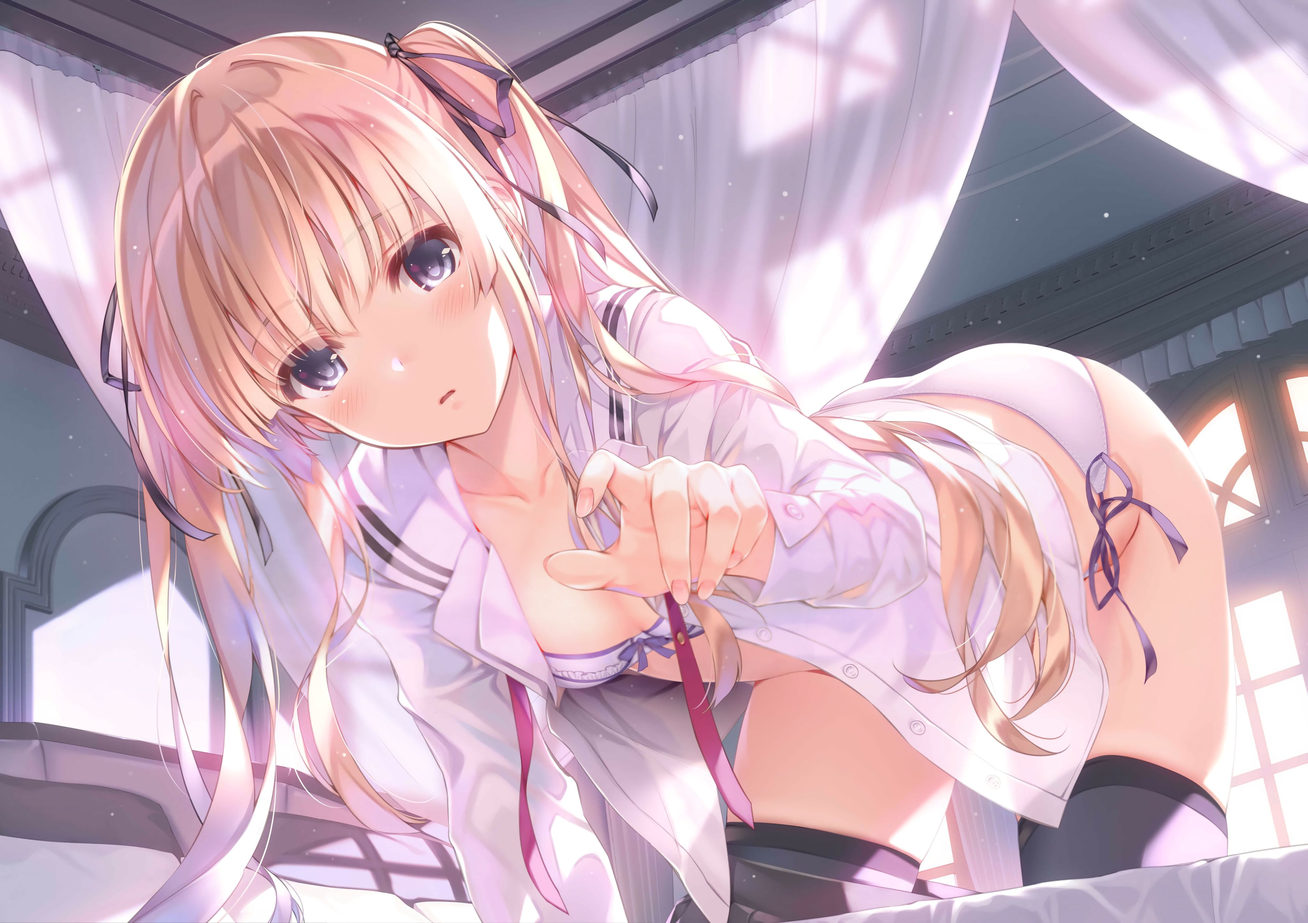
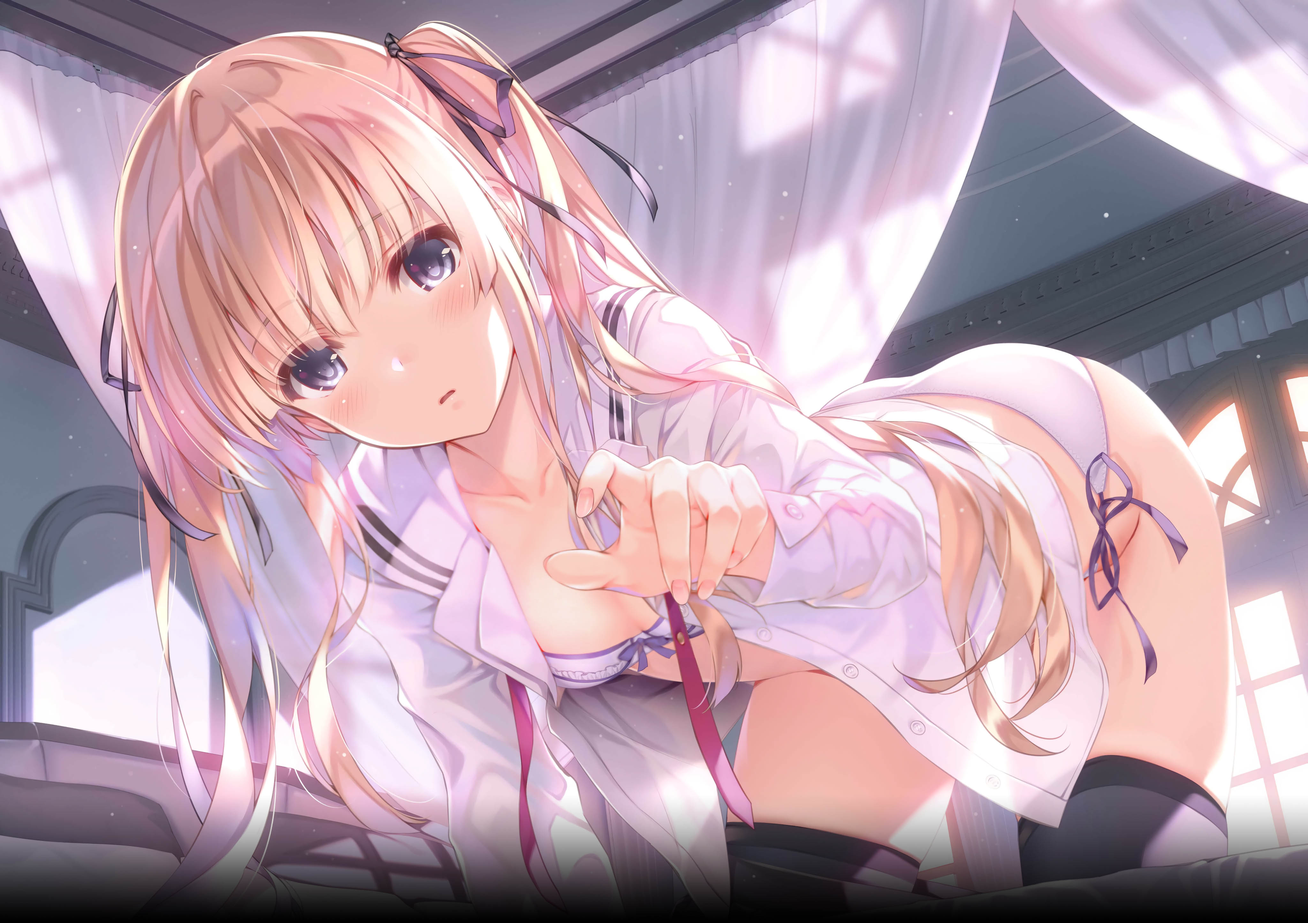
a bit more mobile-friendly and optimized buttons.

Changed region(s): [[0.0, 0.872, 1.0, 1.0]]

diff --git a/style.css b/style.css
@@ -5,100 +5,61 @@ p, a {
     font-family: 'Exo 2', sans-serif;
 }
 body {
-    background: url(Eriri.jpg);
+    background: #000 url(Eriri.jpg);
     background-repeat: no-repeat;
-    background-position: center;
+    background-position: top;
     background-attachment: fixed;
     background-size: 150%;
 }
-a:visited, a:link {
+#btext {
     color: white;
     text-decoration: none;
-}
-.avatar {
-    border-radius: 50%;
-    max-width: 128px;   
-    border: 12px solid pink;
-}
-.buttonosu {
-    background-color: #cc5288;
-    border-radius: 12px;
-    border: none;
-    padding: 8px;
-    padding-right: 20px;
-    padding-left: 20px;
-    margin-right: 6px;
-    margin-left: 6px;
-}
-.buttonkitsu {
-    background-color: #f75239;
-    border-radius: 12px;
-    border: none;
-    padding: 8px;
-    padding-right: 20px;
-    padding-left: 20px;
-    margin-right: 6px;
-    margin-left: 6px;
-}
-.buttonyoutube {
-    background-color: red;
-    border-radius: 12px;
-    border: none;
-    padding: 8px;
-    padding-right: 20px;
-    padding-left: 20px;
-    margin-right: 6px;
-    margin-left: 6px;
-}
-.buttontwitch {
-    background-color: #6441a4;
-    border-radius: 12px;
-    border: none;
-    padding: 8px;
-    padding-right: 20px;
-    padding-left: 20px;
-    margin-right: 6px;
-    margin-left: 6px;
-}
-.buttondiscord {
-    background-color: #7289DA;
-    border-radius: 12px;
-    border: none;
-    padding: 8px;
-    padding-right: 20px;
-    padding-left: 20px;
-    margin-right: 6px;
-    margin-left: 6px;
-}
-.buttongitlab {
-    background-color: #fc6d26;
-    border-radius: 12px;
-    border: none;
-    padding: 8px;
-    padding-right: 20px;
-    padding-left: 20px;
-    margin-right: 6px;
-    margin-left: 6px;
-}
-.buttongithub {
-    background-color: #24292e;
-    border-radius: 12px;
-    border: none;
-    padding: 8px;
-    padding-right: 20px;
-    padding-left: 20px;
-    margin-right: 6px;
-    margin-left: 6px;
 }
 .box {
     background: rgba(255,255,255,0.8);
     padding-top: 40px;
     padding-bottom: 40px;
-    padding-right: 40px;
-    padding-left: 40px;
+    padding-right: 20px;
+    padding-left: 20px;
     margin-right: 20%;
     margin-left: 20%;
 }
-.align {
+.align1 {
     margin: 12%;
+}
+.avatar {
+    border-radius: 50%;
+    max-width: 128px;   
+    border: 12px solid rgba(255,255,255,0.8);
+}
+.button{
+    border-radius: 12px;
+    border: none;
+    padding: 0px;
+    padding-right: 20px;
+    padding-left: 20px;
+    margin-right: 6px;
+    margin-left: 6px;
+    margin-bottom: 12px;
+}
+#buttonosu {
+    background-color: #cc5288;
+}
+#buttonkitsu {
+    background-color: #f75239;
+}
+#buttonyoutube {
+    background-color: red;
+}
+#buttontwitch {
+    background-color: #6441a4;
+}
+#buttondiscord {
+    background-color: #7289DA;
+}
+#buttongitlab {
+    background-color: #fc6d26;
+}
+#buttongithub {
+    background-color: #24292e;
 }

diff --git a/index.html b/index.html
@@ -14,14 +14,21 @@
 <meta property="og:description" content="Hi, staranger! There are mostly links to my online accounts and some contact information.">
 <meta property="og:image" content="https://a.ppy.sh/4428094?1541339427.jpg">
 <meta property="og:url" content="https://me.katou.pw//index.html">
+<meta name="viewport" content="width=device-width, initial-scale=1.0">
 </head>
 <body>
-<center class="align"><img src="https://a.ppy.sh/4428094?1541339427.jpg" class="avatar"><br>
-<h4 class="box"><p>Yo. My online identity is KatouEMgumi_osu and it's quite hypocrite.
+<center class="align1"><img src="https://a.ppy.sh/4428094?1541339427.jpg" class="avatar"><br>
+<h4 class="box"><p>Yo. My online identity is KatouMegumi_osu and it's quite hypocrite.
 <br>I actually like Eriri, despite common misconceptions.<br><br><br>
 
-<button class="buttonosu"><a href="https://osu.ppy.sh/users/4428094" class="osulink"><i class="fas fa-pen"></i> osu! Profile</a></button>  <button class="buttonkitsu"><a href="https://kitsu.io/users/KatouMegumi" class="kitsulink"><i class="fab fa-firefox"></i> Kitsu</a></button>  <button class="buttonyoutube"><a href="https://www.youtube.com/channel/UCYq1UZb7jpCV5bJogb-chww"><i class="fab fa-youtube"></i> YouTube</a></button>  <button class="buttontwitch"><a href="https://www.twitch.tv/katoumegumi_" class="twitchlink"><i class="fab fa-twitch"></i> Twitch</a></button>  <button class="buttondiscord"><a href="https://discord.gg/3kQx3QJ"><i class="fab fa-discord"></i> Discord Server</a></button>
-<br><br><button class="buttongitlab"><a href="https://gitlab.com/KatouMegumi_osu"><i class="fab fa-gitlab"></i> GitLab</a></button>  <button class="buttongithub"><a href="https://github.com/KatouMegumi-osu"><i class="fab fa-github"></i> Github</a></button>
+<a href="https://osu.ppy.sh/users/4428094"><button id="buttonosu" class="button"><p id="btext"><i class="fas fa-pen"></i> osu! Profile</p></button></a>  
+<a href="https://kitsu.io/users/KatouMegumi"><button id="buttonkitsu" class="button"><p id="btext"><i class="fab fa-firefox"></i> Kitsu</p></button></a>  
+<a href="https://www.youtube.com/channel/UCYq1UZb7jpCV5bJogb-chww"><button id="buttonyoutube" class="button"><p id="btext"><i class="fab fa-youtube"></i> YouTube</p></button></a>  
+<a href="https://www.twitch.tv/katoumegumi_"><button id="buttontwitch" class="button"><p id="btext"><i class="fab fa-twitch"></i> Twitch</p></button></a>  
+<a href="https://discord.gg/3kQx3QJ"><button id="buttondiscord" class="button"><p id="btext"><i class="fab fa-discord"></i> Discord Server</p></button></a>
+<br>
+<a href="https://gitlab.com/KatouMegumi_osu"><button id="buttongitlab" class="button"><p id="btext"><i class="fab fa-gitlab"></i> GitLab</p></button></a>  
+<a href="https://github.com/KatouMegumi-osu"><button id="buttongithub" class="button"><p id="btext"><i class="fab fa-github"></i> Github</p></button></a>
 </h4></center>
 
 </body>
